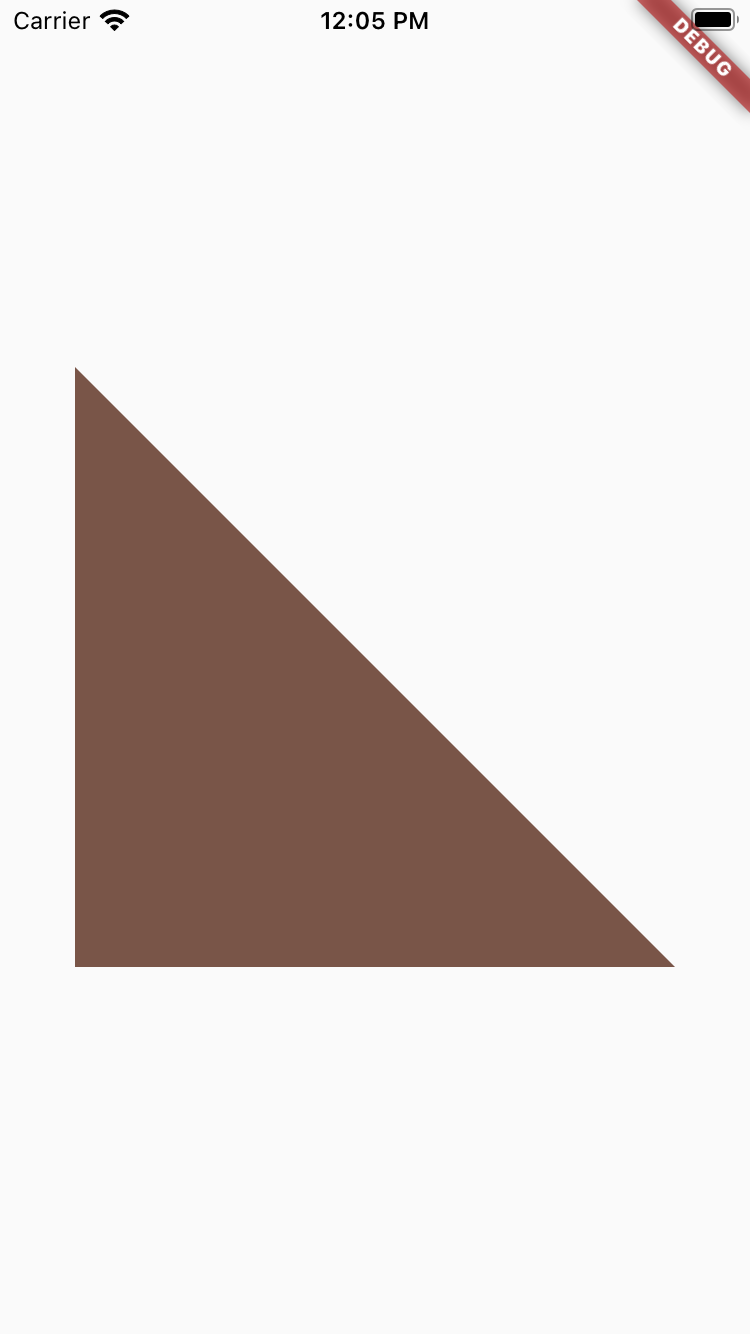
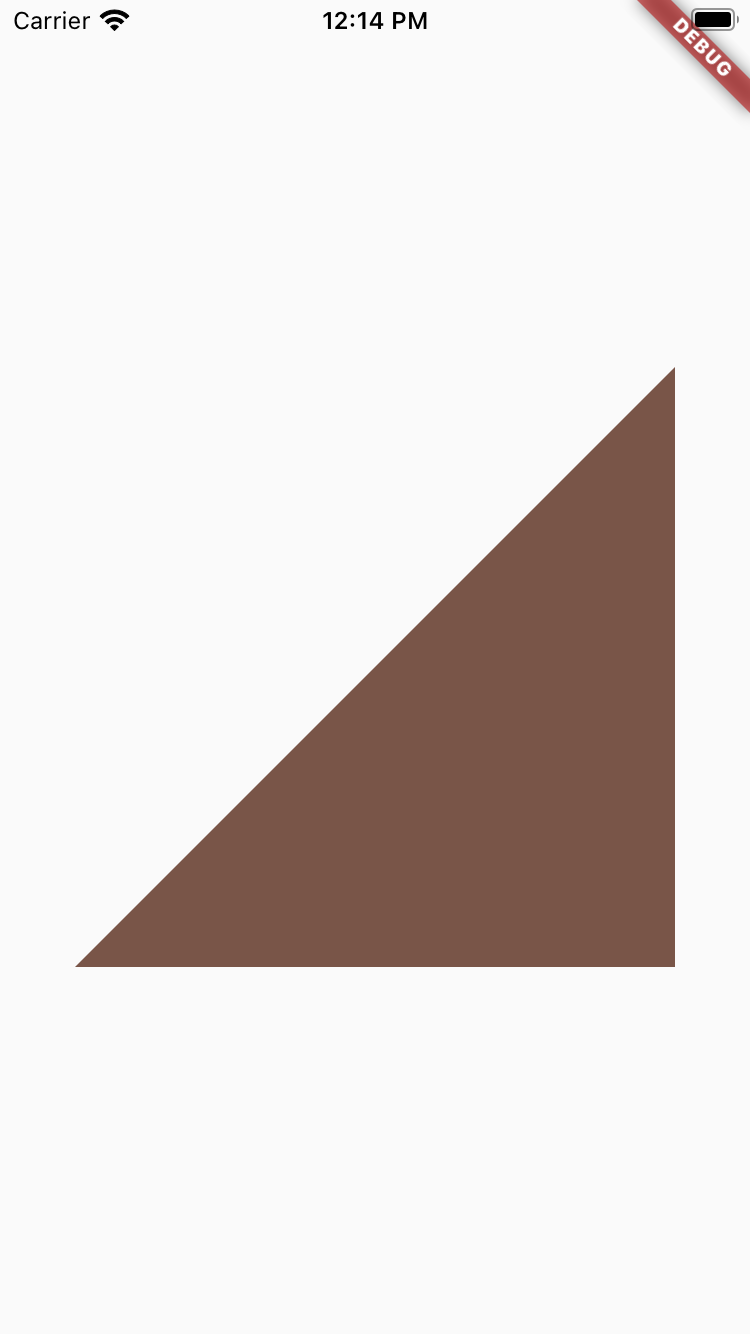
second commit

Changed region(s): [[0.092, 0.2766, 0.92, 0.7376], [0.4293, 0.0, 0.5827, 0.0307]]

diff --git a/lib/screens/clipperclass.dart b/lib/screens/clipperclass.dart
@@ -11,10 +11,11 @@ class MyClipper extends CustomClipper<Path>{
   Path getClip(Size size) {
 
    Path path= Path();
+// Move initial point to (0,h);
+   path.moveTo(0,size.height);
 
-   path.lineTo(0,0,);
-   path.lineTo(0, size.height);
-   path.lineTo(size.width, size.width);
+   path.lineTo(size.width, size.height);
+   path.lineTo(size.width, 0);
    path.close();
    return path;
   }
